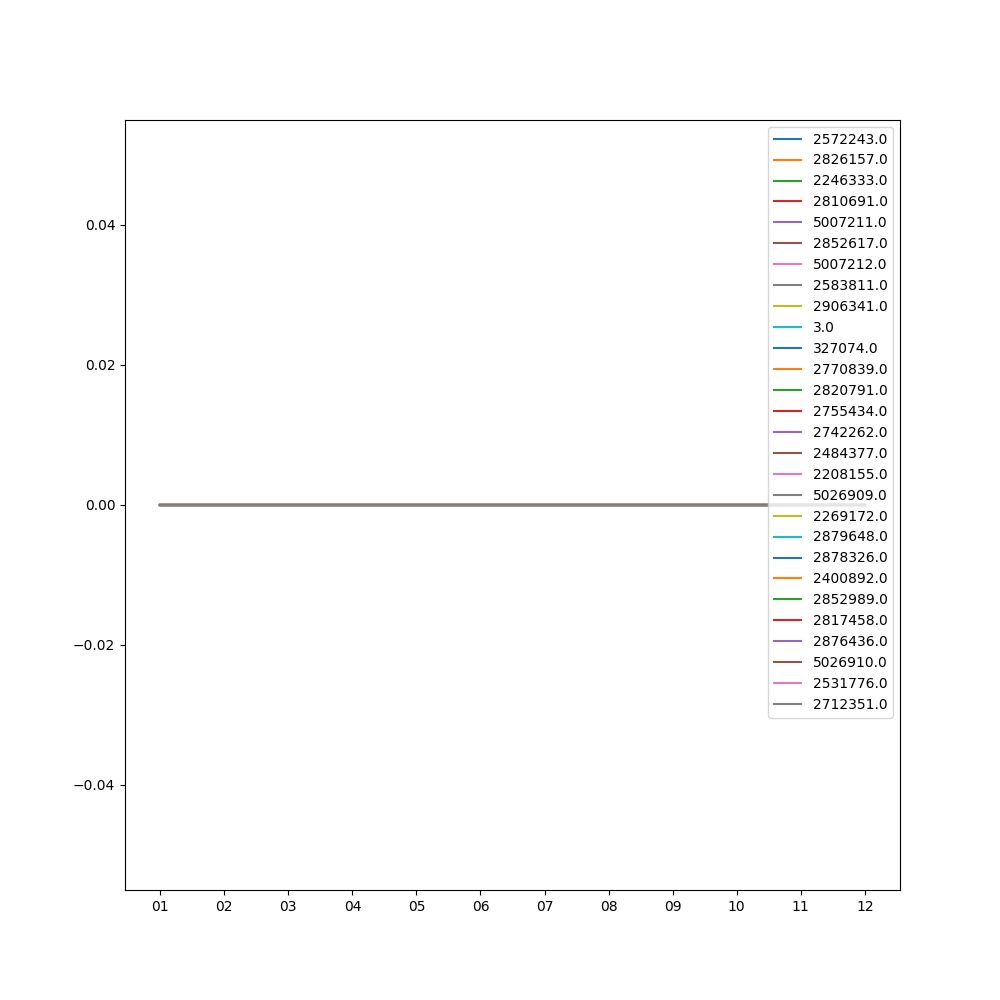
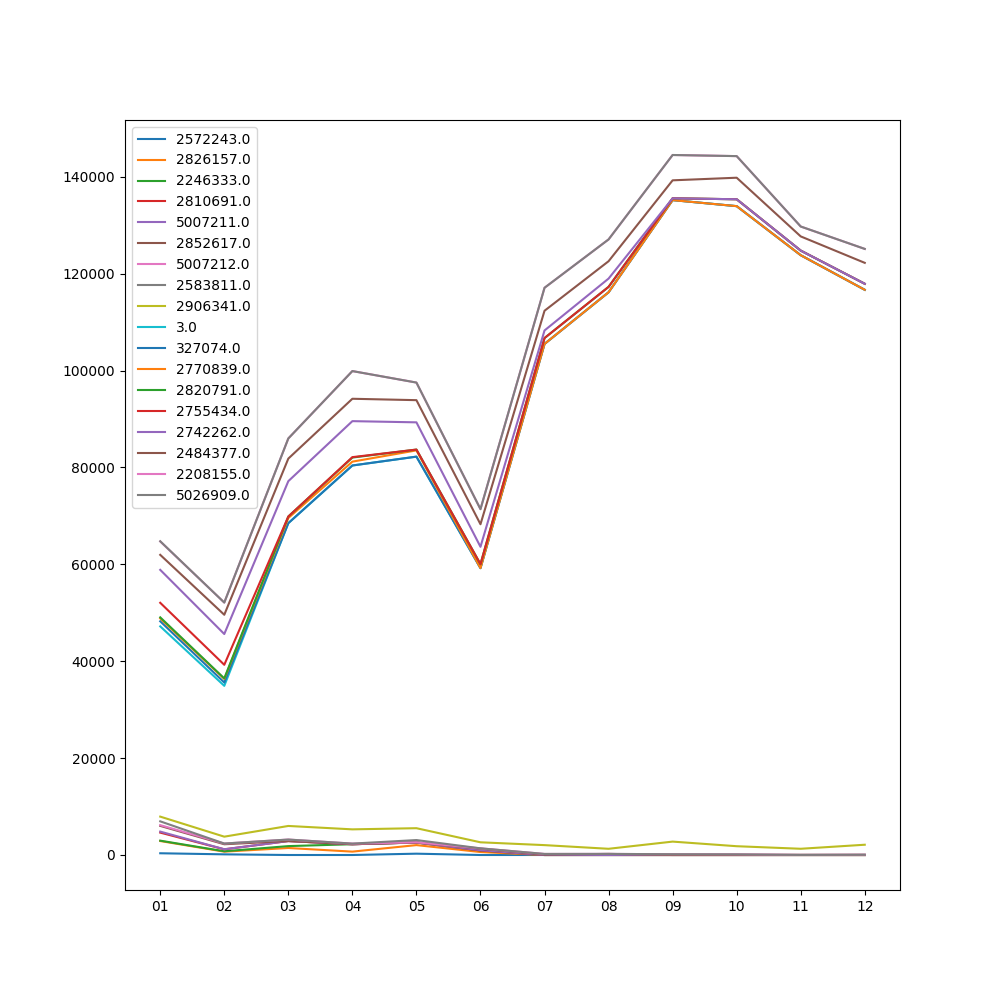
update image

diff --git a/main.py b/main.py
@@ -245,5 +245,5 @@ if __name__ == "__main__":
 #----------------->
     #S.diag_product_0()  # Количество покупок с одним товаром
 #----------------->
-    #S.diag_product_1()  # Отношение покупателей к покупкам  В РАБОТЕ!!!
+    S.diag_product_1()  # Отношение покупателей к покупкам  В РАБОТЕ!!!
 #----------------->
